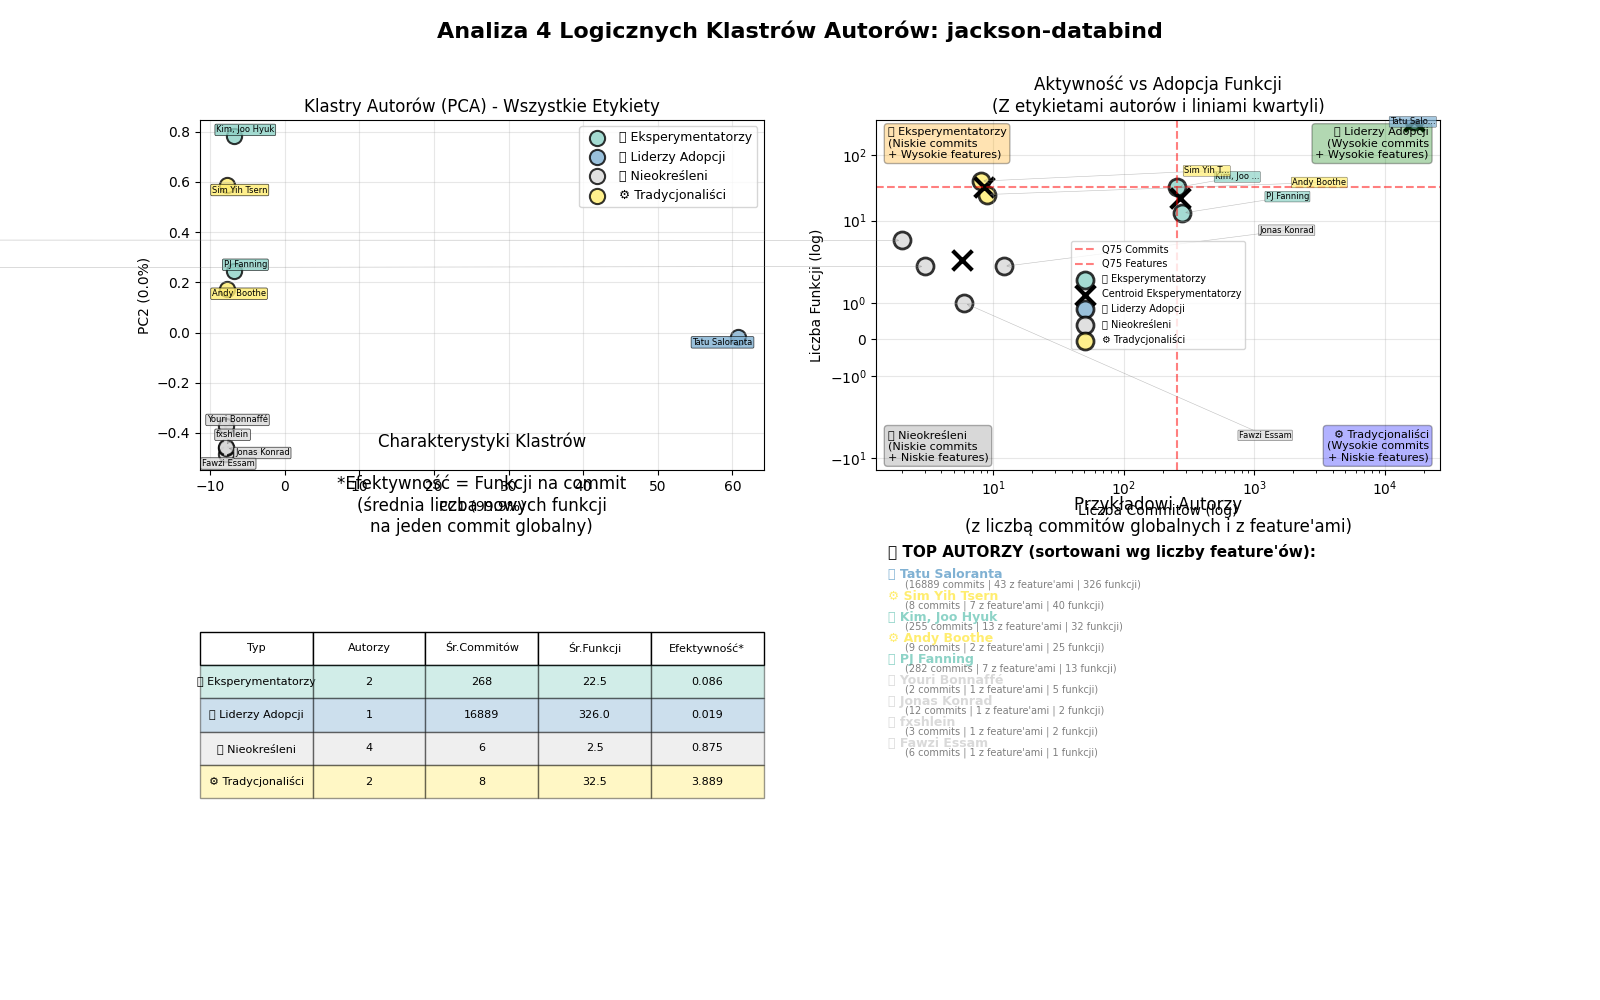
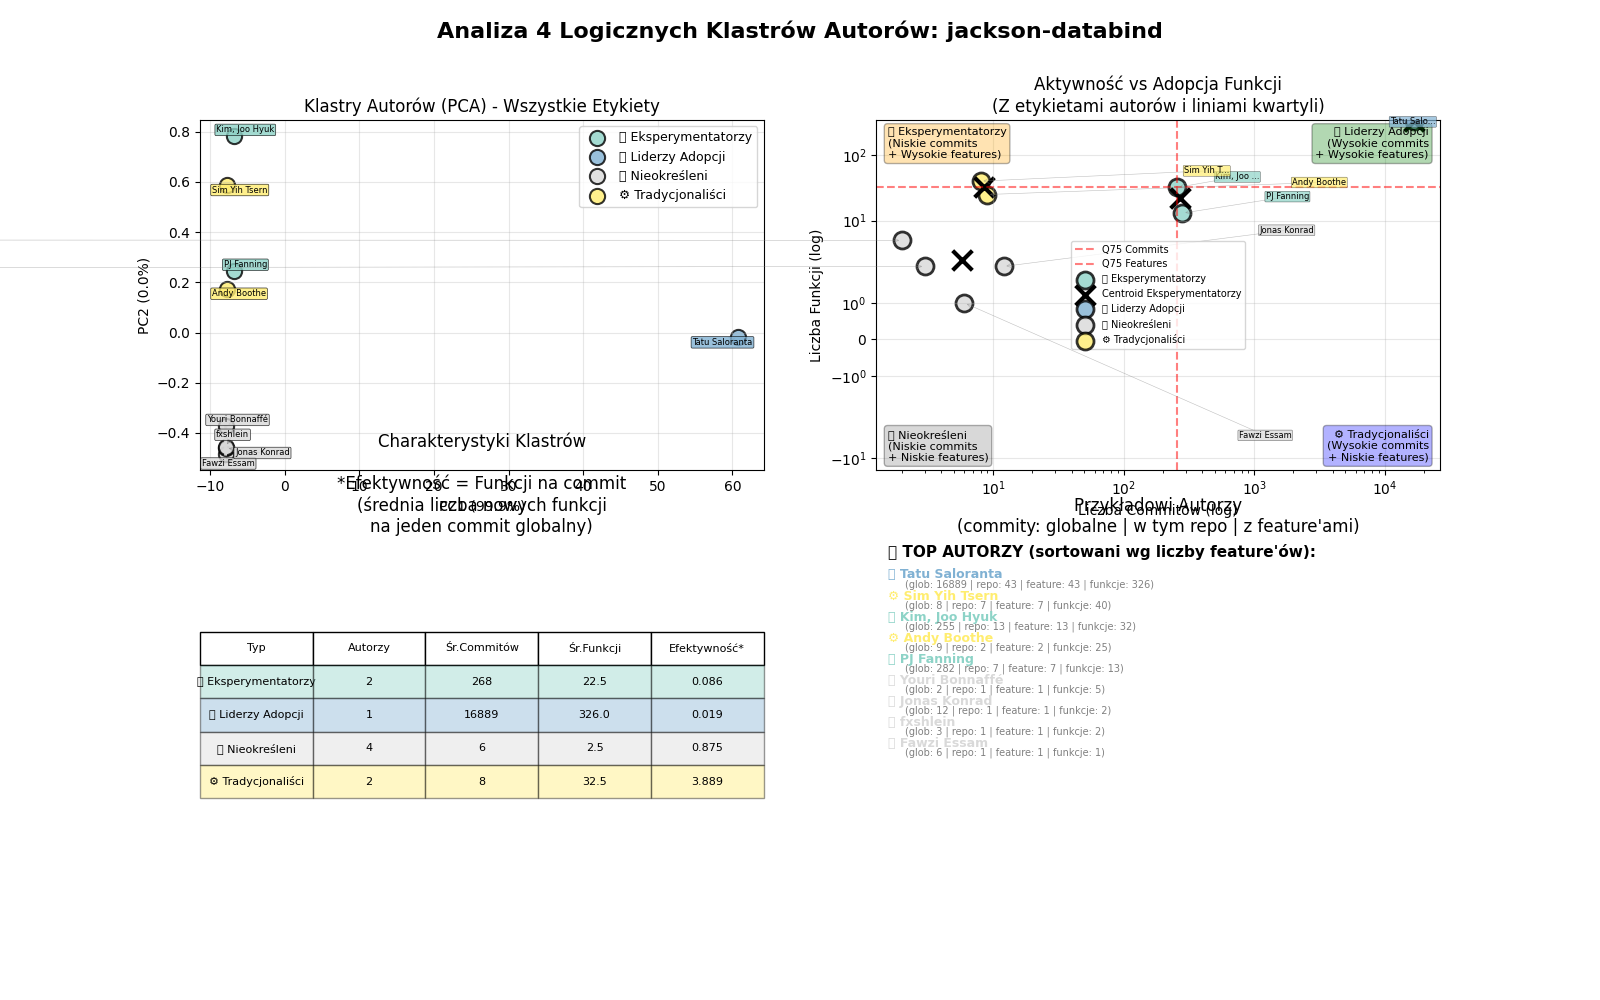
fix: global commits

Changed region(s): [[0.5625, 0.496, 0.8438, 0.775]]

diff --git a/improved_cluster_analyzer_final.py b/improved_cluster_analyzer_final.py
@@ -637,9 +637,11 @@ class ImprovedClusterAnalyzer:
 
             cluster_icon = author_stats['cluster_info']['icon']
 
-            # Formatuj tekst z pełnymi informacjami
+            # Formatuj tekst z pełnymi informacjami - POPRAWKA: dodaj commity z tego repo
             author_text = f"{cluster_icon} {author_name}"
-            stats_text = f"({author_stats['global_commits']} commits | {author_stats['feature_commits']} z feature'ami | {author_stats['features']} funkcji)"
+            # ZMIANA: Dodaj commity z danego repozytorium obok globalnych
+            repo_commits_for_author = self.repo_commits.get(repo_name, {}).get(author_stats['author'], 0)
+            stats_text = f"(glob: {author_stats['global_commits']} | repo: {repo_commits_for_author} | feature: {author_stats['feature_commits']} | funkcje: {author_stats['features']})"
 
             ax4.text(0.02, y_pos, author_text,
                     fontweight='bold', fontsize=9,
@@ -652,7 +654,7 @@ class ImprovedClusterAnalyzer:
                     transform=ax4.transAxes)
             y_pos -= 0.035
 
-        ax4.set_title('Przykładowi Autorzy\n(z liczbą commitów globalnych i z feature\'ami)')
+        ax4.set_title('Przykładowi Autorzy\n(commity: globalne | w tym repo | z feature\'ami)')
 
         plt.tight_layout()
 
@@ -1071,17 +1073,54 @@ PODSUMOWANIE ULEPSZEŃ:
                     ha='center', va='center', transform=ax2.transAxes)
             ax2.set_title('Średnia Efektywność per Typ Autora\n(Brak danych)')
 
-        # Wykres 3: Scatter plot commits vs features (wszystkie autorzy)
+        # Wykres 3: Scatter plot commits vs features (wszystkie autorzy) z etykietami
         if not global_df.empty and 'cluster_name' in global_df.columns:
             colors = ['#2E8B57', '#4169E1', '#FF8C00', '#696969']
+
             for i, (cluster_name, group) in enumerate(global_df.groupby('cluster_name')):
+                color = colors[i % len(colors)]
                 ax3.scatter(group['commits'], group['features'],
                            label=f"{group.iloc[0]['cluster_icon']} {cluster_name}",
-                           alpha=0.6, s=50, color=colors[i % len(colors)])
+                           alpha=0.6, s=50, color=color)
+
+            # DRASTYCZNE OGRANICZENIE: Tylko 3 najbardziej ekstremalne punkty z całego wykresu
+            # 1. Najwyższa aktywność (commits)
+            # 2. Najwyższa adopcja (features)
+            # 3. Najwyższa efektywność (features_per_commit)
+            top_commits = global_df.loc[global_df['commits'].idxmax()]
+            top_features = global_df.loc[global_df['features'].idxmax()]
+            top_efficiency = global_df.loc[global_df['features_per_commit'].idxmax()]
+
+            selected_points = [top_commits, top_features, top_efficiency]
+            # ZMIANA: Użyj nazw autorów zamiast etykiet typu "Max efficiency"
+            labels = [
+                f"🚀 {top_commits['author'][:15]}..." if len(top_commits['author']) > 15 else f"🚀 {top_commits['author']}",
+                f"⭐ {top_features['author'][:15]}..." if len(top_features['author']) > 15 else f"⭐ {top_features['author']}",
+                f"💎 {top_efficiency['author'][:15]}..." if len(top_efficiency['author']) > 15 else f"💎 {top_efficiency['author']}"
+            ]
+
+            # Dodaj tylko te 3 etykiety, pozwalając na nakładanie
+            for point, label in zip(selected_points, labels):
+                if point['features'] >= 5:  # Tylko jeśli ma sens
+                    cluster_color = None
+                    for j, (cluster_name, group) in enumerate(global_df.groupby('cluster_name')):
+                        if point['cluster_name'] == cluster_name:
+                            cluster_color = colors[j % len(colors)]
+                            break
+
+                    if cluster_color:
+                        ax3.annotate(label,
+                                   xy=(point['commits'], point['features']),
+                                   xytext=(5, 5), textcoords='offset points',
+                                   fontsize=8, ha='left', va='bottom',
+                                   bbox=dict(boxstyle="round,pad=0.2",
+                                           facecolor=cluster_color, alpha=0.7,
+                                           edgecolor='black', linewidth=0.5),
+                                   arrowprops=dict(arrowstyle='->', color='black', alpha=0.6, lw=0.5))
 
             ax3.set_xlabel('Liczba Commitów (log)')
             ax3.set_ylabel('Liczba Funkcji (log)')
-            ax3.set_title('Aktywność vs Adopcja Funkcji\n(Wszyscy Autorzy)')
+            ax3.set_title('Aktywność vs Adopcja Funkcji\n(3 najbardziej wyróżniające się punkty)')
             ax3.set_xscale('log')
             ax3.set_yscale('symlog')
             ax3.legend(fontsize=9)
@@ -1103,23 +1142,23 @@ PODSUMOWANIE ULEPSZEŃ:
             ax4.set_xlabel('Średnia Efektywność (Funkcje/Commit)')
             ax4.set_title('Top 10 Repozytoriów\n(Według Efektywności)')
             ax4.grid(True, alpha=0.3)
+
+            # Dodaj wartości na słupkach
+            for i, (bar, val) in enumerate(zip(bars, top_repos['avg_efficiency'])):
+                ax4.text(bar.get_width() + 0.0001, bar.get_y() + bar.get_height()/2,
+                        f'{val:.3f}', ha='left', va='center', fontsize=8)
         else:
             ax4.text(0.5, 0.5, 'Brak danych do wyświetlenia',
                     ha='center', va='center', transform=ax4.transAxes)
             ax4.set_title('Top 10 Repozytoriów\n(Brak danych)')
 
-        # Dodaj wartości na słupkach
-        for i, (bar, val) in enumerate(zip(bars, top_repos['avg_efficiency'])):
-            ax4.text(bar.get_width() + 0.0001, bar.get_y() + bar.get_height()/2,
-                    f'{val:.3f}', ha='left', va='center', fontsize=8)
-
         plt.tight_layout()
-        plt.savefig(self.summary_dir / "globalny_rozklad_klastrow.png", dpi=100, bbox_inches=None)  # USUNIĘTE bbox_inches='tight' i zmniejszone DPI
+        plt.savefig(self.summary_dir / "globalny_rozklad_klastrow.png", dpi=150, bbox_inches='tight')  # Zwiększone DPI z 100 na 150
         plt.close()
 
     def create_efficiency_comparison(self, global_df, repo_summary_df):
         """Tworzy wykres porównania efektywności"""
-        fig, ((ax1, ax2), (ax3, ax4)) = plt.subplots(2, 2, figsize=(18, 14))
+        fig, ((ax1, ax2), (ax3, ax4)) = plt.subplots(2, 2, figsize=(20, 14))  # Zwiększone z (18, 14)
         fig.suptitle('Analiza Efektywności Adopcji Nowych Funkcji Java',
                      fontsize=16, fontweight='bold')
 
@@ -1161,16 +1200,47 @@ PODSUMOWANIE ULEPSZEŃ:
         ax2.legend()
         ax2.grid(True, alpha=0.3)
 
-        # Wykres 3: Efektywność vs Liczba commitów
+        # Wykres 3: Efektywność vs Liczba commitów z etykietami autorów
         for cluster_name, group in global_df.groupby('cluster_name'):
             color = color_map.get(cluster_name, 'gray')
             ax3.scatter(group['commits'], group['features_per_commit'],
                        label=f"{group.iloc[0]['cluster_icon']} {cluster_name}",
                        alpha=0.6, s=50, color=color)
 
+        # DRASTYCZNE OGRANICZENIE: Tylko 2 najbardziej ekstremalne punkty
+        # 1. Najwyższa efektywność (features_per_commit)
+        # 2. Najwyższa aktywność z wysoką efektywnością
+        top_efficiency = global_df.loc[global_df['features_per_commit'].idxmax()]
+        high_activity_efficient = global_df[global_df['features_per_commit'] >= global_df['features_per_commit'].quantile(0.8)]
+        if not high_activity_efficient.empty:
+            top_activity_efficient = high_activity_efficient.loc[high_activity_efficient['commits'].idxmax()]
+        else:
+            top_activity_efficient = top_efficiency  # Fallback
+
+        selected_points = [top_efficiency, top_activity_efficient]
+        # ZMIANA: Użyj nazw autorów zamiast etykiet typu "Max efficiency"
+        labels = [
+            f"💎 {top_efficiency['author'][:15]}..." if len(top_efficiency['author']) > 15 else f"💎 {top_efficiency['author']}",
+            f"🚀 {top_activity_efficient['author'][:15]}..." if len(top_activity_efficient['author']) > 15 else f"🚀 {top_activity_efficient['author']}"
+        ]
+
+        # Dodaj tylko te 2 etykiety, pozwalając na nakładanie
+        for point, label in zip(selected_points, labels):
+            if point['features_per_commit'] >= 0.005:  # Tylko znaczące
+                cluster_color = color_map.get(point['cluster_name'], 'gray')
+
+                ax3.annotate(label,
+                           xy=(point['commits'], point['features_per_commit']),
+                           xytext=(5, 5), textcoords='offset points',
+                           fontsize=8, ha='left', va='bottom',
+                           bbox=dict(boxstyle="round,pad=0.2",
+                                   facecolor=cluster_color, alpha=0.7,
+                                   edgecolor='black', linewidth=0.5),
+                           arrowprops=dict(arrowstyle='->', color='black', alpha=0.6, lw=0.5))
+
         ax3.set_xlabel('Liczba Commitów (log)')
-        ax3.set_ylabel('Efektywność')
-        ax3.set_title('Efektywność vs Aktywność Autora')
+        ax3.set_ylabel('Efektywność (Funkcji na Commit)')
+        ax3.set_title('Efektywność vs Aktywność Autora\n(2 najbardziej wyróżniające się punkty)')
         ax3.set_xscale('log')
         ax3.legend(fontsize=9)
         ax3.grid(True, alpha=0.3)
@@ -1188,7 +1258,7 @@ PODSUMOWANIE ULEPSZEŃ:
         ax4.grid(True, alpha=0.3)
 
         plt.tight_layout()
-        plt.savefig(self.summary_dir / "analiza_efektywnosci.png", dpi=150, bbox_inches='tight')  # ZMNIEJSZONE z 300 na 150
+        plt.savefig(self.summary_dir / "analiza_efektywnosci.png", dpi=150, bbox_inches='tight')
         plt.close()
 
     def create_cluster_heatmap(self, repo_summary_df):
@@ -1213,7 +1283,7 @@ PODSUMOWANIE ULEPSZEŃ:
                                          '🔬 Eksperymentatorzy', '❓ Nieokreśleni'])
 
         # Utwórz wykres
-        fig, (ax1, ax2) = plt.subplots(1, 2, figsize=(18, 10))
+        fig, (ax1, ax2) = plt.subplots(1, 2, figsize=(20, 12))  # Zwiększone z (18, 10)
         fig.suptitle('Rozkład Typów Autorów per Repozytorium', fontsize=16, fontweight='bold')
 
         # Heatmapa procentowa
@@ -1259,5 +1329,6 @@ PODSUMOWANIE ULEPSZEŃ:
         plt.tight_layout()
         plt.savefig(self.summary_dir / "heatmapa_klastrow.png", dpi=150, bbox_inches='tight')
         plt.close()
+
 
 ImprovedClusterAnalyzer().run_improved_analysis()
